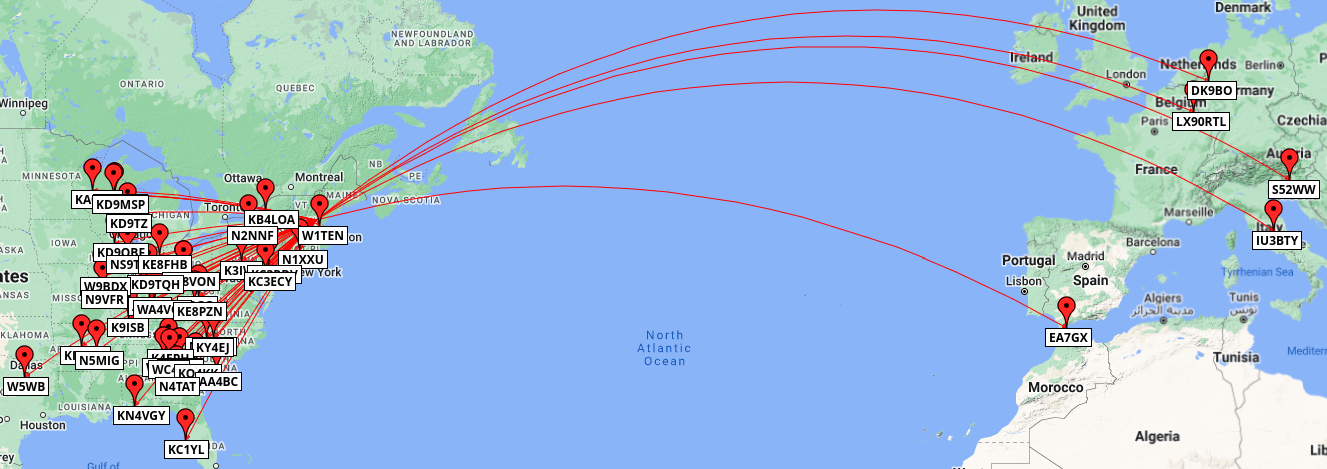
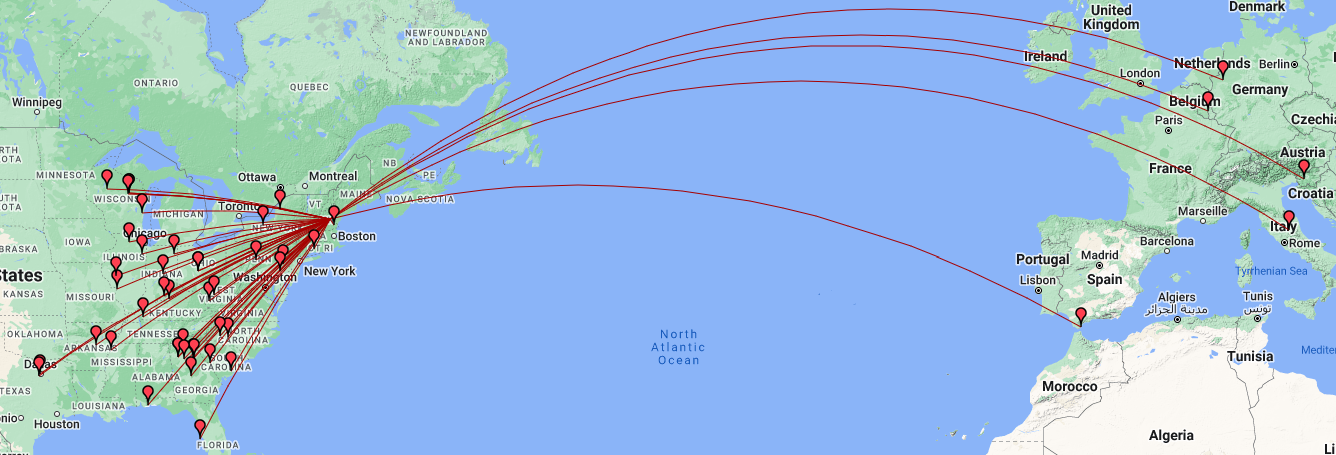
updated content

diff --git a/_sections/ScoutCamp_2023.md b/_sections/ScoutCamp_2023.md
@@ -10,11 +10,11 @@ nav_order: 92
 
 I was an adult leader for my son Josh's Scout Troop during their summer at 
 [Hidden Valley Scout Camp](https://nhscouting.org/outdoor-programs/summer-camp/)
-in Gilmanton, NH. I set up a field radio to demonstrate radio operations to the 40 or so co-ed Scouts in [Troop 119, Lexington](http://www.troop119.com/).
+in Gilmanton, NH. I set up a field radio to indeoduce amateur radio to the 40 or so co-ed Scouts in [Troop 119, Lexington](http://www.troop119.com/).
 
 ![](hidden_valley_radio_ops_cropped.jpg)
 
-From the radio station set up at the troop's campsite we made 47 two-way contacts to 6 different countries. Our most distant contact was from NH to Italy, 6,569 km.
+From our troop's campsite we made 47 two-way contacts to 6 different countries. Our most distant contact was from NH to Italy, 6,569 km.
 
 [![Map of the world showing radio contacts made at Hidden Valley Scout Camp](hv_2023_qso_map.png "QSOs made at Scout Camp &#013;Click to View Larger Map in Separate Browser Window")](/sections/ScoutCamp_2023/hv_2023_qso_map.png){: target="_blank"}
 
@@ -22,7 +22,7 @@ From the radio station set up at the troop's campsite we made 47 two-way contact
 
 ![Xeigu G90 radio, log book and battery on a picnic table](field_setup.jpg "Field radio setup in the Troop's campsite")
 
-Over 5 days, I operated the radio in the camp site as I and curious Scouts would come by and ask questions about what I was doing.
+Most afternoons during the week, I operated the radio in the camp site. Curious Scouts would come by to ask questions about what I was doing.
 
 On Wednesday, I was able set up a pre-arranged contact with [W1TEN](https://www.qrz.com/db/W1TEN), another Scout
 Leader in NH. W1TEN was operating about 44 miles away as the crow flies from our campsite. Such a close distance 
@@ -45,7 +45,7 @@ Greg had recently worked as a volunteer for [K2BSA, Radio Scouting](https://k2bs
 > at [https://www.jotajoti.info](https://www.jotajoti.info/jota)
 
 
-We operated from Monday until Friday. In the last two days, I was usually operating with a couple Scouts sitting with me and helping me by copying into my log book or adjusting the VFO knob.
+We operated for a few hours in the afternoon over the rest of the week. We had rain the last two days and I was usually operating with a couple Scouts sitting with me and helping by copying into the log book or adjusting the VFO knob.
 
 
 > Many of the radio operators were incredibly patient with the Scouts and spent time with the Scouts
@@ -57,3 +57,55 @@ I think we got some Scouts hooked. In the Fall we'll be offering the Radio Merit
 ![](PXL_20230818_030120173.jpg)
 
 Here's a photo of our nighttime operations.
+
+## List of the contacts made from our field radio
+
+| Date     | Time  | Frequency | Call Sign |
+| -------- | ----- | --------- | --------- |
+| 14/08/23 | 14:15 | 21.0MHz   | AA5RN     |
+| 14/08/23 | 14:45 | 14.0MHz   | K4DX      |
+| 14/08/23 | 15:15 | 14.0MHz   | K4EPH     |
+| 14/08/23 | 19:50 | 21.0MHz   | EA7GX     |
+| 15/08/23 | 19:05 | 14.0MHz   | K9ISB     |
+| 15/08/23 | 19:06 | 14.0MHz   | KD9SZN    |
+| 15/08/23 | 19:15 | 21.0MHz   | DK9BO     |
+| 15/08/23 | 19:30 | 18.0MHz   | S52WW     |
+| 15/08/23 | 20:10 | 14.0MHz   | KD9SZN    |
+| 15/08/23 | 20:11 | 14.0MHz   | KB4LOA    |
+| 15/08/23 | 20:11 | 14.0MHz   | KD9MSP    |
+| 15/08/23 | 20:12 | 18.0MHz   | IU3BTY    |
+| 15/08/23 | 20:54 | 18.0MHz   | LX90RTL   |
+| 16/08/23 | 18:50 | 7.0MHz    | N2NNF     |
+| 16/08/23 | 18:55 | 7.0MHz    | W1TEN     |
+| 16/08/23 | 19:50 | 14.0MHz   | KA0EZE    |
+| 16/08/23 | 20:04 | 14.0MHz   | N4TAT     |
+| 16/08/23 | 20:25 | 14.0MHz   | NS9T      |
+| 17/08/23 | 16:30 | 14.0MHz   | KC1YL     |
+| 17/08/23 | 16:38 | 14.0MHz   | W5WB      |
+| 17/08/23 | 16:45 | 14.0MHz   | AA4BC     |
+| 17/08/23 | 16:58 | 14.0MHz   | KE8FHB    |
+| 17/08/23 | 17:03 | 14.0MHz   | KD9TZ     |
+| 17/08/23 | 17:23 | 14.0MHz   | KE8PZN    |
+| 17/08/23 | 17:23 | 14.0MHz   | K8GQ      |
+| 17/08/23 | 17:28 | 14.0MHz   | WA4VOC    |
+| 18/08/23 | 14:35 | 21.0MHz   | KY4EJ     |
+| 18/08/23 | 14:40 | 21.0MHz   | NC4ON     |
+| 18/08/23 | 15:03 | 14.0MHz   | KB8SSH    |
+| 18/08/23 | 15:03 | 14.0MHz   | KB8VON    |
+| 18/08/23 | 15:05 | 14.0MHz   | KQ4KK     |
+| 18/08/23 | 15:15 | 14.0MHz   | KC3RDV    |
+| 18/08/23 | 15:25 | 14.0MHz   | WD5GNX    |
+| 18/08/23 | 15:30 | 14.0MHz   | KC3ECY    |
+| 18/08/23 | 15:58 | 14.0MHz   | K3IWI     |
+| 18/08/23 | 17:30 | 14.0MHz   | KI5GTR    |
+| 18/08/23 | 17:35 | 14.0MHz   | N9VFR     |
+| 18/08/23 | 17:45 | 14.0MHz   | WD5GNX    |
+| 18/08/23 | 17:48 | 14.0MHz   | AC4HI     |
+| 18/08/23 | 17:54 | 14.0MHz   | N5MIG     |
+| 18/08/23 | 17:59 | 14.0MHz   | KN4VGY    |
+| 18/08/23 | 18:30 | 14.0MHz   | KD9TQH    |
+| 18/08/23 | 18:36 | 14.0MHz   | N4JAH     |
+| 18/08/23 | 19:35 | 14.0MHz   | WC4Y      |
+| 18/08/23 | 20:40 | 14.0MHz   | KD9OBF    |
+| 18/08/23 | 20:41 | 14.0MHz   | W9BDX     |
+| 18/08/23 | 20:55 | 7.0MHz    | N1XXU     |
